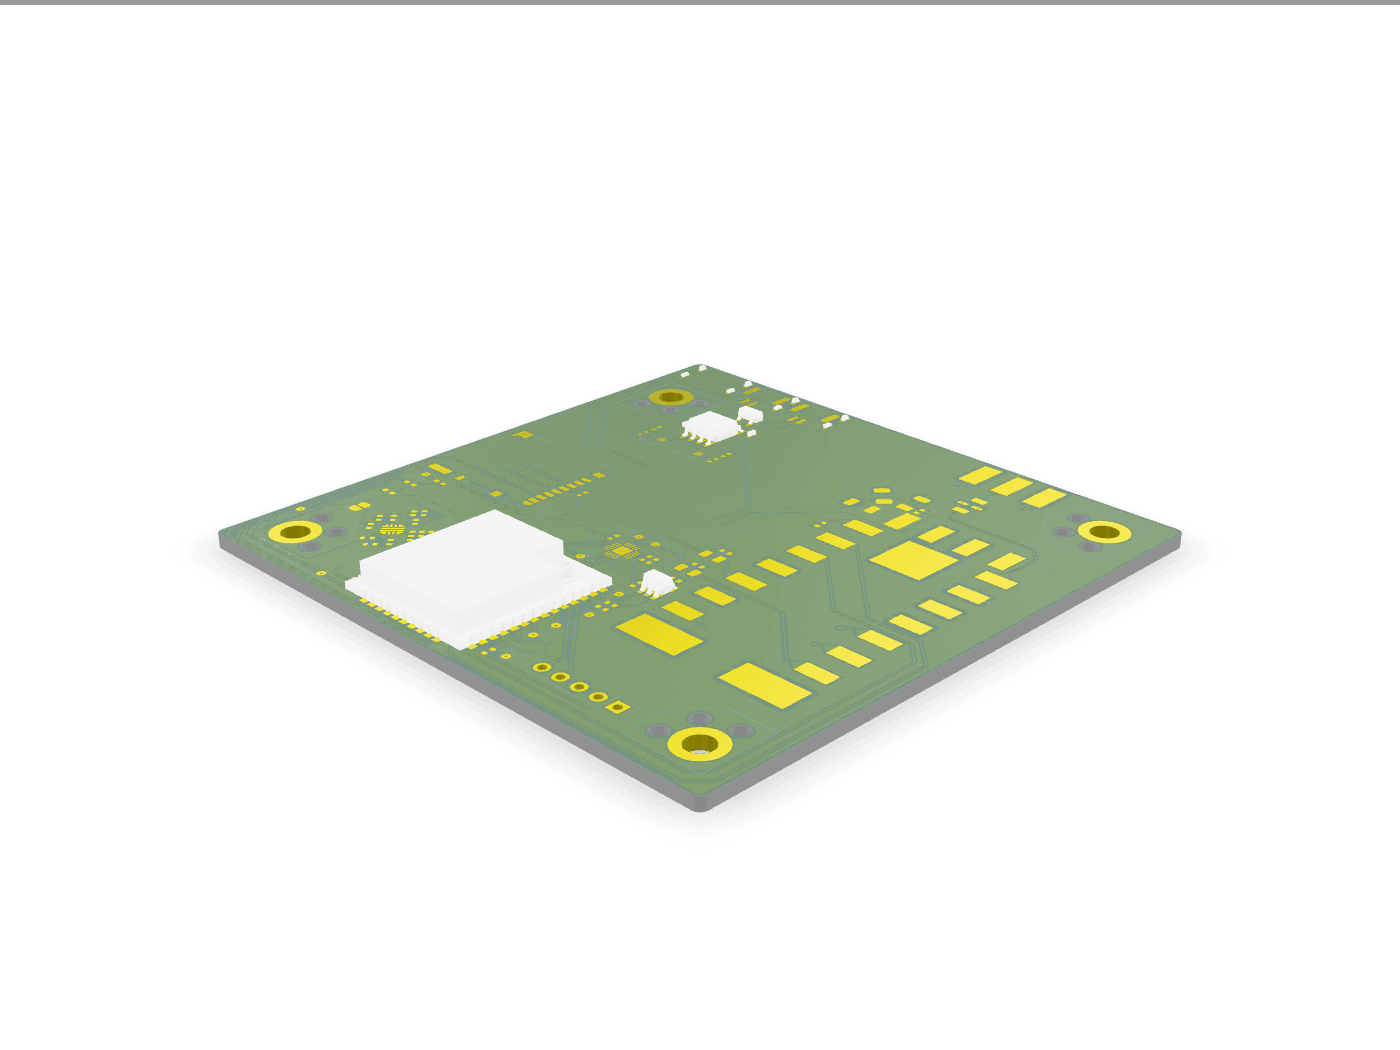
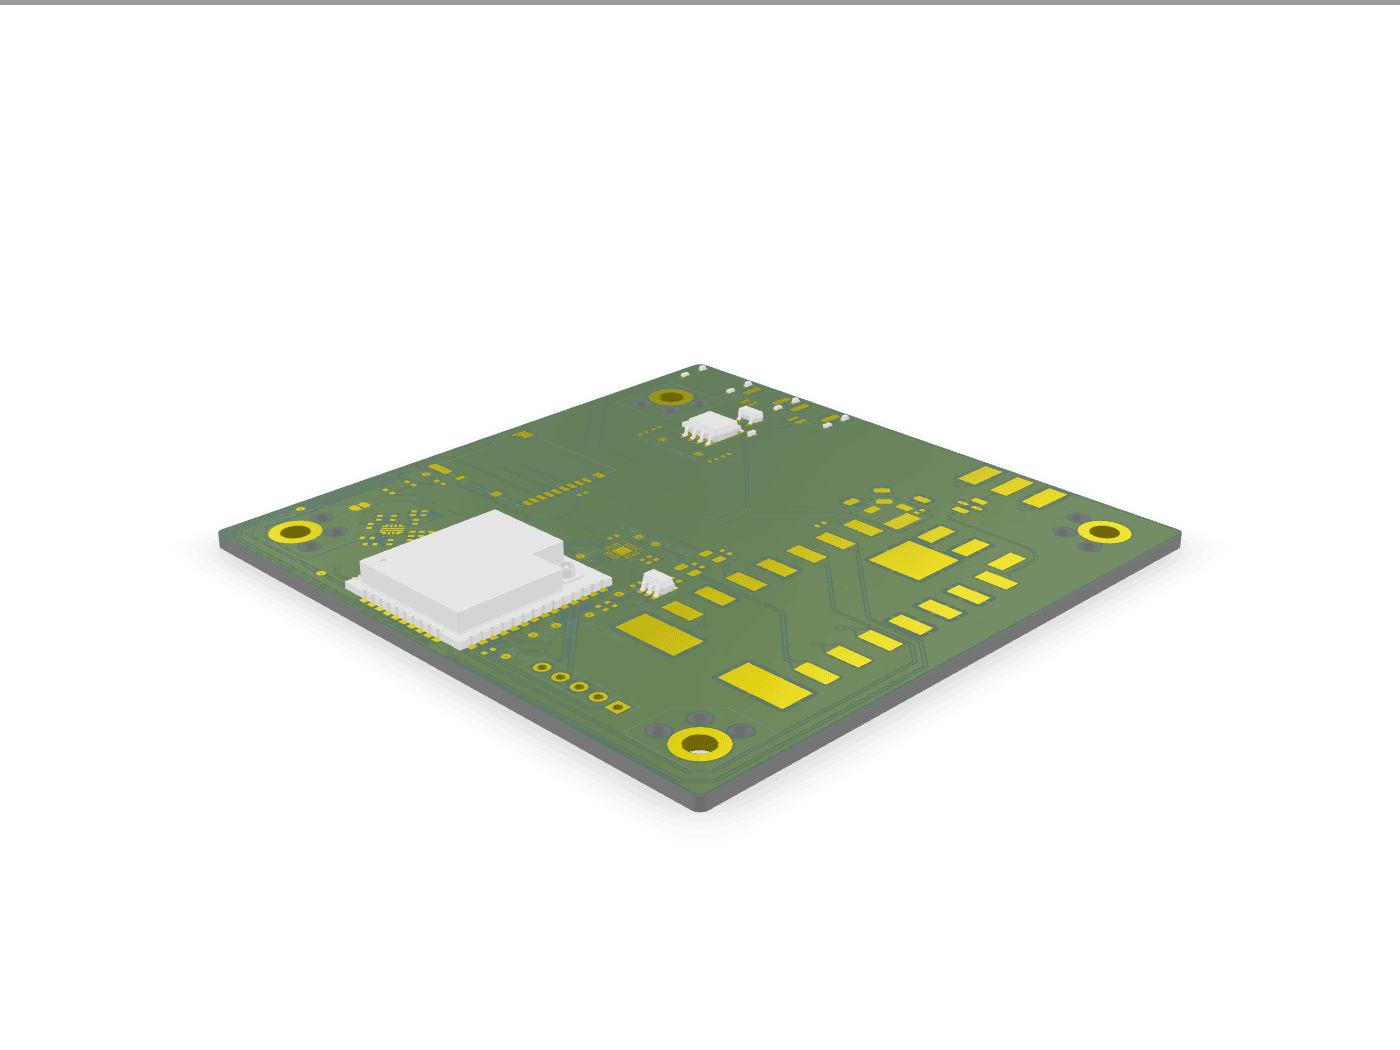
posts: make the 3D viewer actually load on tap
model-viewer 4 removed reveal="interaction" — the unknown value fell
through to manual semantics, so tapping the poster did nothing and the
loading bar parked itself across the viewer top. Switch to the
sanctioned pair: reveal="manual" plus a delegated click listener in the
viewer scripts calling dismissPoster(). Verified end-to-end over CDP:
no .glb request before the tap, loaded model after, camera orbit moves
on drag.

Pin 4.2.0 instead of 4.3.1 — the 4.3.x bundles ship leftover debug
console.log spam. Theme the progress bar (--pine), and cool the
lighting to match the tuned three.js reference: exposure 0.55 with
neutral tone mapping (0.8 × 0.7 environment intensity), poster
re-rendered to match.

Changed region(s): [[0.1536, 0.3352, 0.86, 0.7924]]

diff --git a/src/assets/layout.css b/src/assets/layout.css
@@ -784,6 +784,8 @@ details.more[open]::details-content {
   border-radius: 6px;
   background: var(--surface);
   --poster-color: transparent;
+  /* The loading bar along the viewer's top edge (default near-black). */
+  --progress-bar-color: var(--pine);
 }
 
 /* The fallback <img> child is for no-JS readers only; once the custom

diff --git a/design/mockup/layout.css b/design/mockup/layout.css
@@ -783,6 +783,8 @@ details.more[open]::details-content {
   border-radius: 6px;
   background: var(--surface);
   --poster-color: transparent;
+  /* The loading bar along the viewer's top edge (default near-black). */
+  --progress-bar-color: var(--pine);
 }
 
 .post .fig-3d model-viewer:defined > img {
